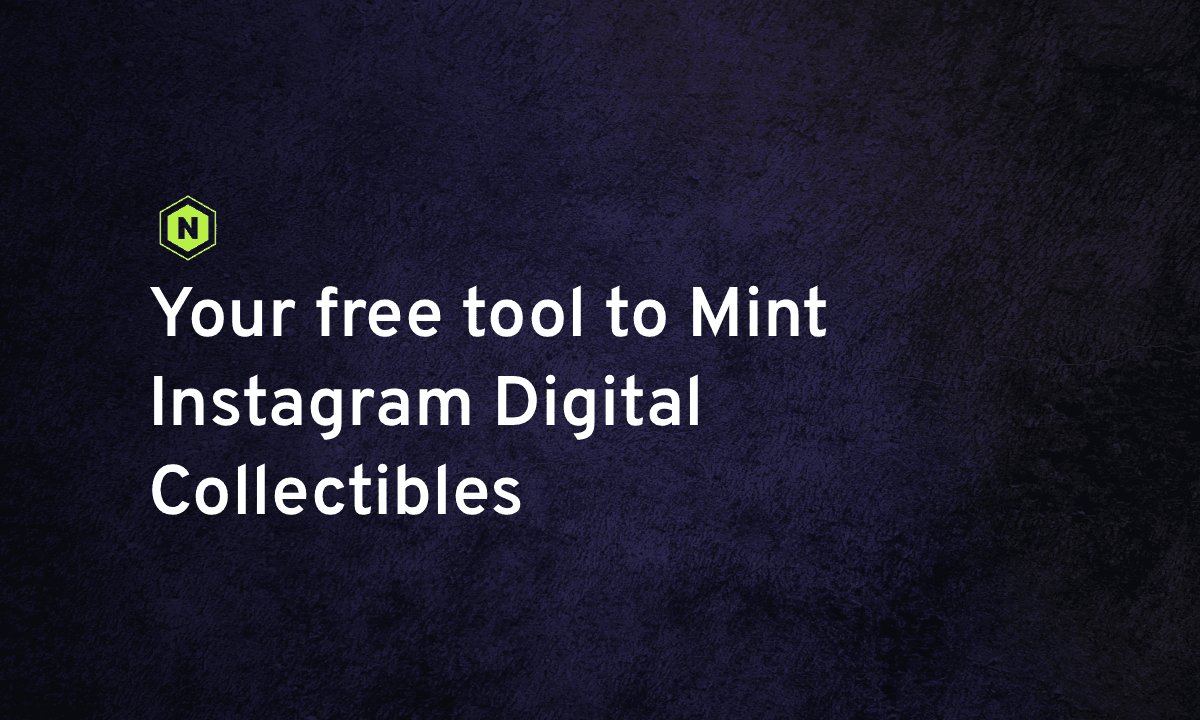
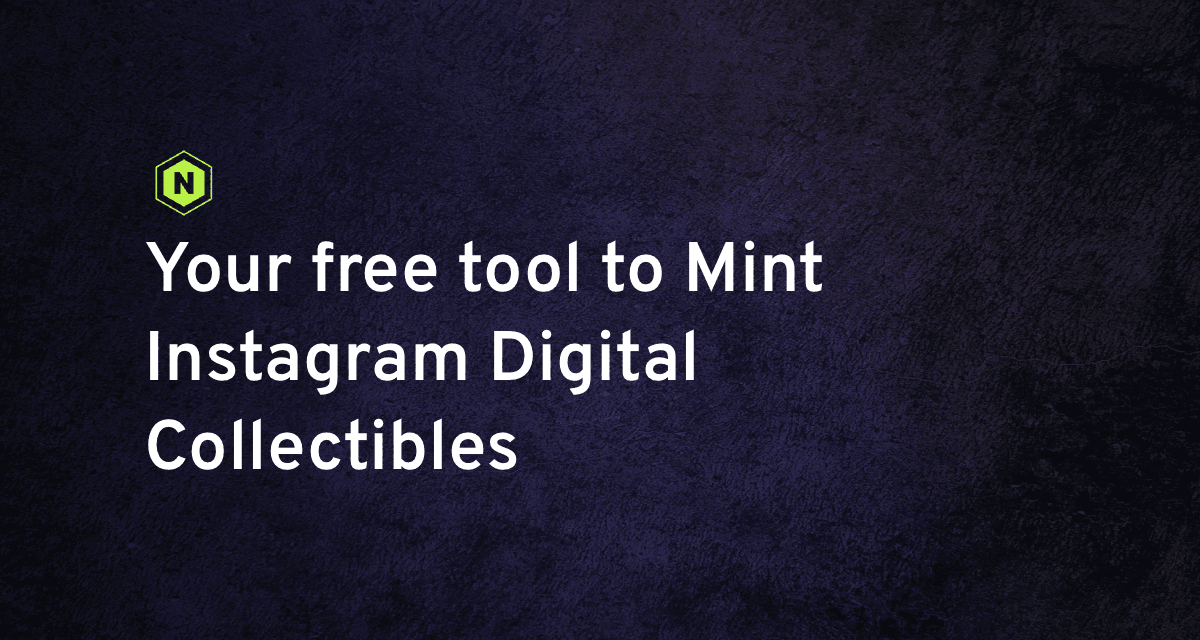
Ref: update og

diff --git a/next-seo.config.js b/next-seo.config.js
@@ -1,7 +1,6 @@
 /* eslint-disable import/no-anonymous-default-export */
 const site_name = 'Mint Digital Collectibles',
-  desc =
-    'Your free tool to Mint Instagram Digital Collectibles. #MintedOnNinsta'
+  desc = 'Free tool to Mint Instagram Digital Collectibles. #MintedOnNinsta'
 
 export default {
   title: site_name,
@@ -11,18 +10,17 @@ export default {
     type: 'website',
     locale: 'en_IE',
     url: 'https://ninsta.io/',
-    siteName: site_name,
-    title: site_name,
+    siteName: `Ninsta - ${site_name}`,
+    title: `Ninsta - ${site_name}`,
     description: desc,
     images: [
       {
         url: 'https://ninsta.io/og/free-tool.png',
         width: 1200,
-        height: 720,
+        height: 640,
         alt: desc,
         type: 'image/png'
-      },
-      { url: 'https://ninsta.io/og/free-tool-nft.png' }
+      }
     ]
   }
 }
